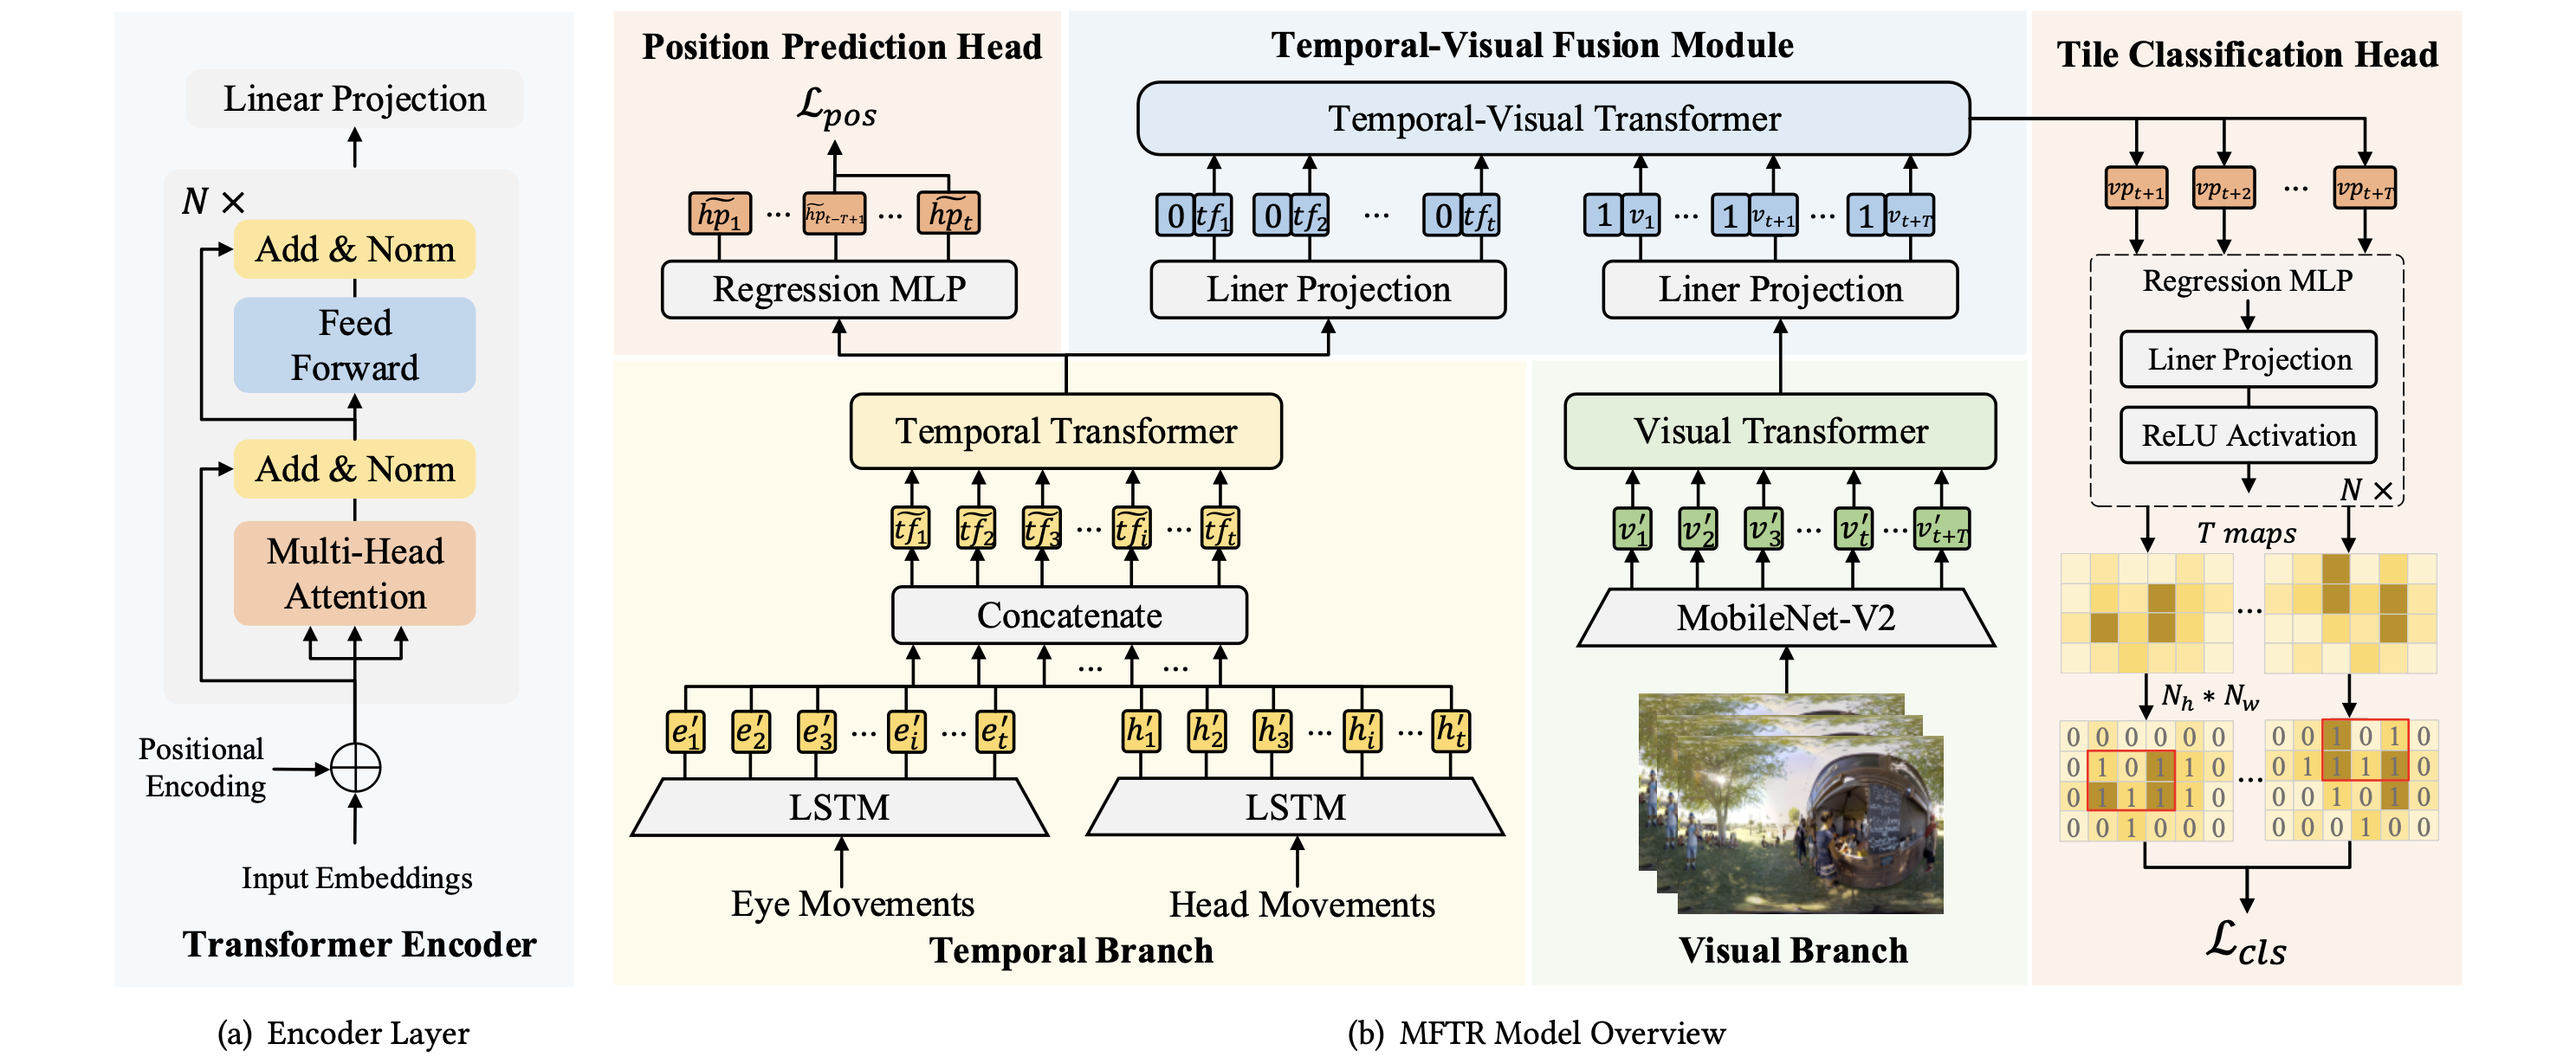
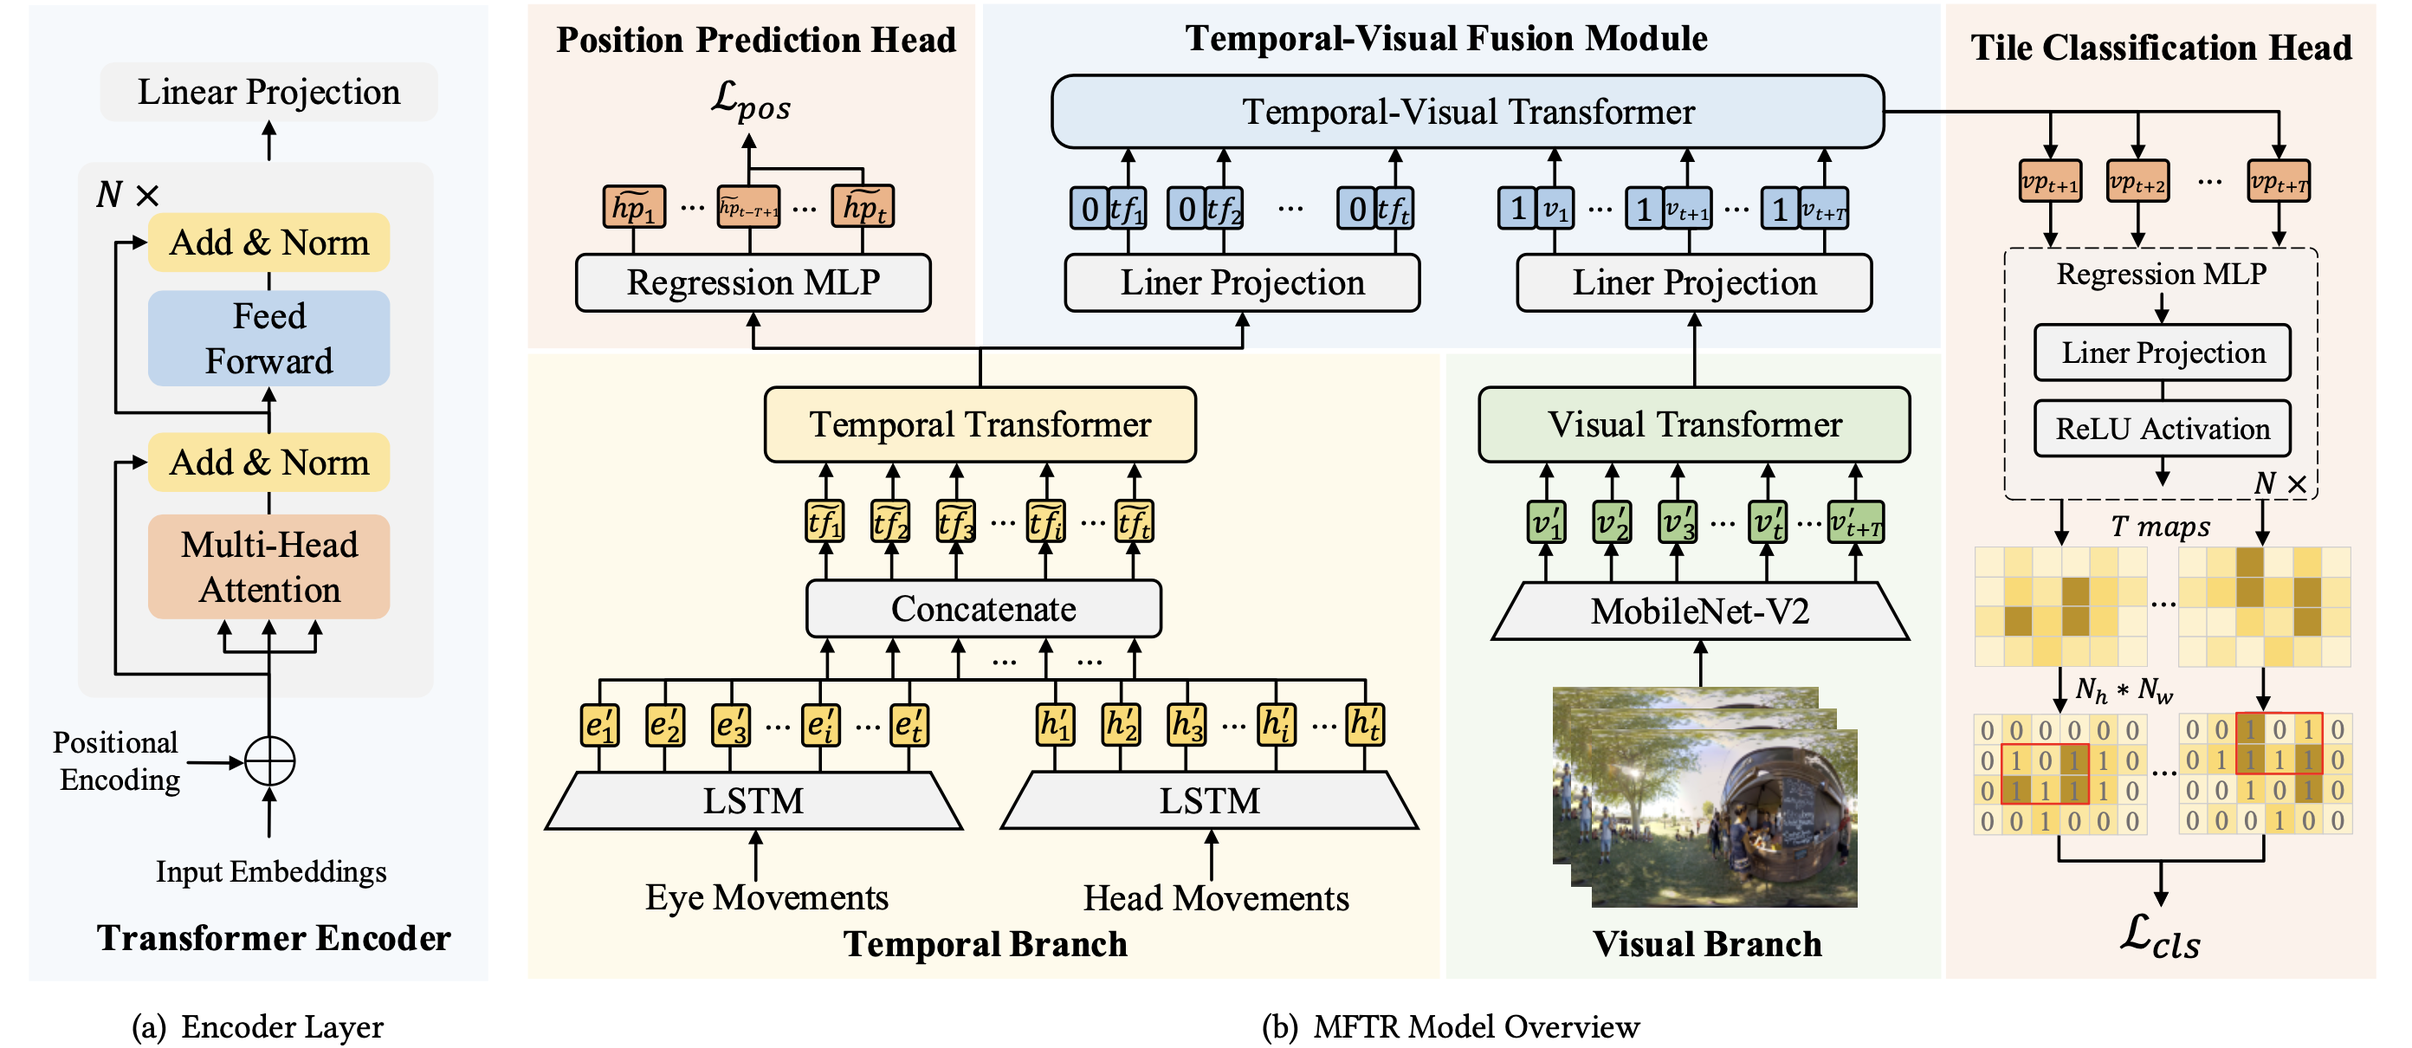
pub-template

diff --git a/index.html b/index.html
@@ -111,113 +111,89 @@
           </tbody>
         </table>
 
-          <table
-            style="width:100%;border:0px;border-spacing:0px;border-collapse:separate;margin-right:auto;margin-left:auto;">
-            <tbody>
-              <tr>
-                <td style="padding:10px;width:100%;vertical-align:middle">
-                  <heading>Publications</heading>
-                  (* denotes equal contribution)
-                </td>
-              </tr>
-            </tbody>
-          </table>
+          <!-- Publications Section -->
+          <heading>Publications</heading>
+          (* denotes equal contribution)
 
-          <table
-            style="width:100%;border:0px;border-spacing:0px;border-collapse:separate;margin-right:auto;margin-left:auto;">
-            <tbody>
+          <div class="pub-row">
+            <div class="pub-img">
+              <img src="images/unlearn-trace.png" alt="Unlearn Trace" />
+            </div>
+            <div class="pub-info">
+              <papertitle>Unlearning Isn't Invisible: Detecting Unlearning Traces  in LLMs from Model Outputs</papertitle>
+              <br>
+              <strong>Yiwei Chen</strong>*,
+              <a href="https://scholar.google.ca/citations?user=c2VU-_4AAAAJ&hl=en">Soumyadeep Pal*</a>,
+              <a href="https://damon-demon.github.io/">Yimeng Zhang</a>,
+              <a href="https://qingqu.engin.umich.edu/">Qing Qu</a>,
+              <a href="https://lsjxjtu.github.io/">Sijia Liu</a>
+              <br>
+              <em> Under Review </em>, 2025
+              <br>
+              <em>Short version accepted for Oral at MUGen @ ICML'25</em>
+              <br>
+              <a href="https://github.com/OPTML-Group/Unlearn-Trace">Code</a>
+              /
+              <a href="https://arxiv.org/abs/2506.14003">arXiv</a>
+              <p>
+                Large language models retain persistent fingerprints in their outputs and hidden activations even after unlearning. 
+                These traces enable detection of whether a model has been “unlearned,” exposing a new vulnerability in reverse-engineering forgotten information.
+              </p>
+            </div>
+          </div>
 
-              <tr></tr>
-              <td style="padding:20px;width:35%;vertical-align:middle">
-                <div class="one"><img src="images/unlearn-trace.png"
-                    style="width:160%;max-width:160%; position: absolute;top: -5%">
-                </div>
-              </td>
-              <td style="padding:20px;width:65%;vertical-align:middle">
-                <papertitle>Unlearning Isn't Invisible: Detecting Unlearning Traces  in LLMs from Model Outputs
-                </papertitle>
-                <br>
-                <strong>Yiwei Chen</strong>*,
-                <a href="https://scholar.google.ca/citations?user=c2VU-_4AAAAJ&hl=en">Soumyadeep Pal*</a>,
-                <a href="https://damon-demon.github.io/">Yimeng Zhang</a>,
-                <a href="https://qingqu.engin.umich.edu/">Qing Qu</a>,
-                <a href="https://lsjxjtu.github.io/">Sijia Liu</a>
-                <br>
-                <em> Under Review </em>, 2025
-                <br>
-                <em>Short version accepted for Oral at MUGen @ ICML'25</em>
-                <br>
-                <a href="https://github.com/OPTML-Group/Unlearn-Trace">Code</a>
-                /
-                <a href="https://arxiv.org/abs/2506.14003">arXiv</a>
-                <p>
-                  Large language models retain persistent fingerprints in their outputs and hidden activations even after unlearning. 
-                  These traces enable detection of whether a model has been “unlearned,” exposing a new vulnerability in reverse-engineering forgotten information.
-                </p>
-              </td></tr>
+          <div class="pub-row">
+            <div class="pub-img">
+              <img src="images/vlm-unlearn.png" alt="VLM Unlearn" />
+            </div>
+            <div class="pub-info">
+              <papertitle>Safety Mirage: How Spurious Correlations Undermine VLM Safety Fine-tuning</papertitle>
+              <br>
+              <strong>Yiwei Chen</strong>*,
+              <a href="https://cse.msu.edu/~yaoyugua/">Yuguang Yao*</a>,
+              <a href="https://www.yihua-zhang.com/">Yihua Zhang</a>,
+              Bingquan Shen, 
+              <a href="https://www.linkedin.com/in/gaowen-liu-1b52a610a/">Gaowen Liu</a>,
+              <a href="https://lsjxjtu.github.io/">Sijia Liu</a>
+              <br>
+              <em> Under Review </em>, 2025
+              <br>
+              <a href="https://github.com/OPTML-Group/VLM-Safety-MU">Code</a>
+              /
+              <a href="https://arxiv.org/abs/2503.11832">arXiv</a>
+              <p>
+                Conventional supervised safety fine-tuning of VLMs suffers from the “safety mirage”
+                problem due to training data bias, resulting in spurious correlations and over-rejections following one-
+                word attacks. Employing unlearning algorithms on VLMs effectively removes harmful content and
+                addresses these safety issues.
+              </p>
+            </div>
+          </div>
 
-              <tr></tr>
-              <td style="padding:20px;width:35%;vertical-align:middle">
-                <div class="one"><img src="images/vlm-unlearn.png"
-                    style="width:160%;max-width:160%; position: absolute;top: -5%">
-                </div>
-              </td>
-              <td style="padding:20px;width:65%;vertical-align:middle">
-                <papertitle>Safety Mirage: How Spurious Correlations Undermine VLM Safety Fine-tuning
-                </papertitle>
-                <br>
-                <strong>Yiwei Chen</strong>*,
-                <a href="https://cse.msu.edu/~yaoyugua/">Yuguang Yao*</a>,
-                <a href="https://www.yihua-zhang.com/">Yihua Zhang</a>,
-                Bingquan Shen, 
-                <a href="https://www.linkedin.com/in/gaowen-liu-1b52a610a/">Gaowen Liu</a>,
-                <a href="https://lsjxjtu.github.io/">Sijia Liu</a>
-                <br>
-                <em> Under Review </em>, 2025
-                <br>
-                <!-- <a href="https://alanzhangcs.github.io/tamm-page/">Project Page</a>
-                / -->
-                <a href="https://github.com/OPTML-Group/VLM-Safety-MU">Code</a>
-                /
-                <a href="https://arxiv.org/abs/2503.11832">arXiv</a>
-                <p>
-                  Conventional supervised safety fine-tuning of VLMs suffers from the “safety mirage”
-                  problem due to training data bias, resulting in spurious correlations and over-rejections following one-
-                  word attacks. Employing unlearning algorithms on VLMs effectively removes harmful content and
-                  addresses these safety issues.
-                </p>
-              </td></tr>
+          <div class="pub-row">
+            <div class="pub-img">
+              <img src="images/mftr.png" alt="MFTR" />
+            </div>
+            <div class="pub-info">
+              <papertitle>Tile Classification Based Viewport Prediction with Multi-modal Fusion Transformer</papertitle>
+              <br>
+              Zhihao Zhang*,
+              <strong>Yiwei Chen</strong>*,
+              Weizhan Zhang,
+              Caixia Yan, Qinghua Zheng, Qi Wang, Wangdu Chen
+              <br>
+              <em> ACM MM </em>, 2023
+              <br>
+              <a href="https://github.com/alanzhangcs/MFTR">Code</a>
+              /
+              <a href="https://arxiv.org/pdf/2309.14704">arXiv</a>
+              <p>
+                Propose a tile classification based viewport prediction method with Multi-modal Fusion Transformer
+                to improve the robustness of viewport prediction.
+              </p>
+            </div>
+          </div>
 
-              <tr></tr>
-              <td style="padding:20px;width:35%;vertical-align:middle">
-                <div class="one"><img src="images/mftr.png"
-                    style="width:160%;max-width:160%; position: absolute;top: -5%">
-                </div>
-              </td>
-              <td style="padding:20px;width:65%;vertical-align:middle">
-                <papertitle>Tile Classification Based Viewport Prediction with Multi-modal Fusion Transformer
-                </papertitle>
-                <br>
-                Zhihao Zhang*,
-                <strong>Yiwei Chen</strong>*,
-                Weizhan Zhang,
-                Caixia Yan, Qinghua Zheng, Qi Wang, Wangdu Chen
-                <br>
-                <em> ACM MM </em>, 2023
-                <br>
-                <a href="https://github.com/alanzhangcs/MFTR">Code</a>
-                /
-                <a href="https://arxiv.org/pdf/2309.14704">arXiv</a>
-                <p></p>
-                <p>
-                  Propose a tile classification based viewport prediction method with Multi-modal Fusion Transformer
-                  to improve the robustness of viewport prediction.
-                </p>
-              </td></tr>
-
-
-            </tbody>
-          </table>
 
         </td>
       </tr>

diff --git a/stylesheet.css b/stylesheet.css
@@ -135,28 +135,50 @@
     text-decoration: underline; 
 }
 
-/* Mobile responsive styles to prevent image and text overlap */
+/* Flex layout for publications */
+.pub-row {
+  display: flex;
+  align-items: flex-start;
+  margin-bottom: 36px;
+  margin-top: 30px;
+}
+.pub-info {
+  flex: 1 1 0;
+  min-width: 0;
+  margin-top: -15px;
+}
+.pub-img {
+  flex: 0 0 35%;
+  max-width: 260px;
+  margin-right: 20px;
+  min-width: 120px;
+}
+.pub-img img {
+  width: 100%;
+  height: auto;
+  display: block;
+  border-radius: 6px;
+}
+.pub-info {
+  flex: 1 1 0;
+  min-width: 0;
+}
+@media (max-width: 900px) {
+  .pub-img {
+    flex: 0 0 140px;
+    max-width: 180px;
+    margin-right: 16px;
+  }
+}
 @media (max-width: 600px) {
-  .one img {
-    position: static !important;
-    width: 100% !important;
-    max-width: 100% !important;
-    height: auto !important;
+  .pub-img {
+    flex: 0 0 40vw;
+    min-width: 80px;
+    max-width: 50vw;
+    margin-right: 10px;
+    margin-bottom: 0;
   }
-  
-  /* Keep table layout but adjust image container */
-  .one {
-    width: 100% !important;
-    height: auto !important;
-    position: static !important;
-  }
-  
-  /* Adjust table cell widths for mobile */
-  td[style*="width:35%"] {
-    width: 40% !important;
-  }
-  
-  td[style*="width:65%"] {
-    width: 60% !important;
+  .pub-info {
+    margin-top: 0;
   }
 }
